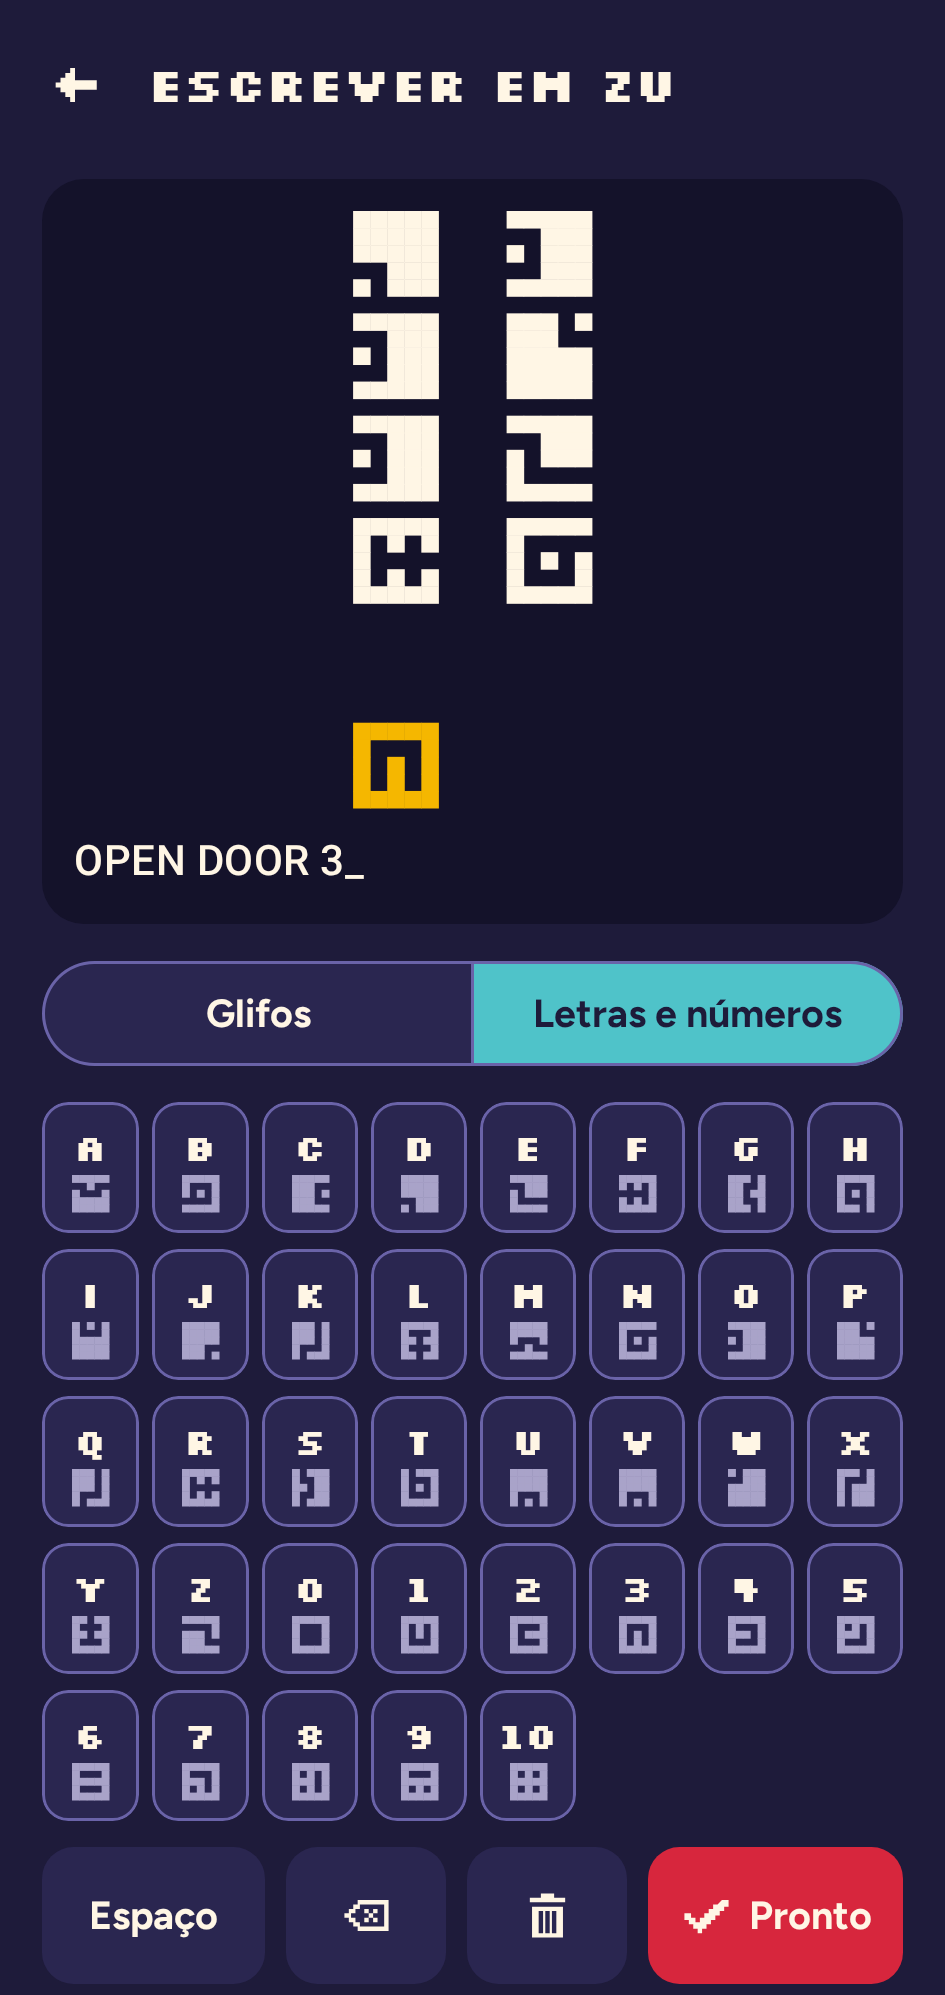
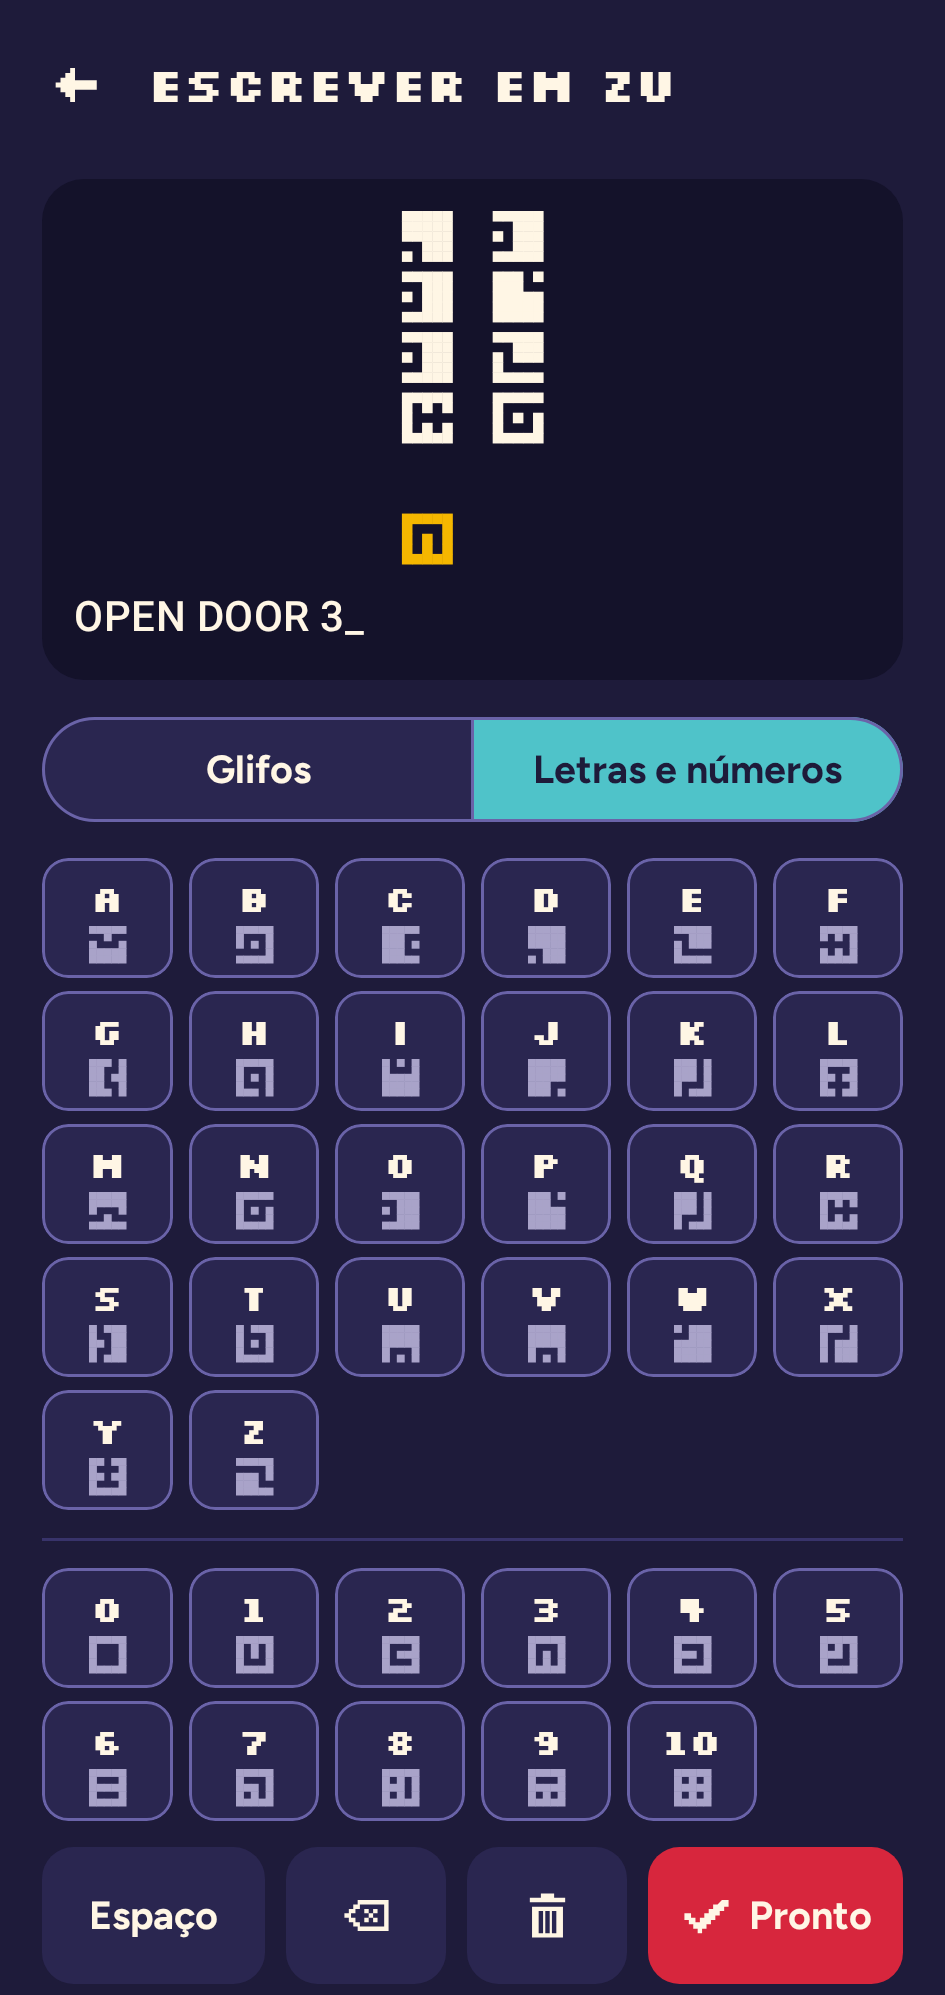
Write by hand: separate numbers from letters; keys fit the screen
Both keyboards get a gap with a thin line between letters and numbers.
Key height adapts to the screen (46 dp, down to 36 dp on short screens)
so the Zu message keeps room; with nothing typed, the hint uses the
whole message area.

Claude-Session: https://claude.ai/code/session_01BCnJVnooueZi2qjpizvg1o

diff --git a/app/src/main/kotlin/com/davicolzer/zureader/ui/write/WriteScreen.kt b/app/src/main/kotlin/com/davicolzer/zureader/ui/write/WriteScreen.kt
@@ -6,6 +6,7 @@ import androidx.compose.foundation.border
 import androidx.compose.foundation.clickable
 import androidx.compose.foundation.layout.Arrangement
 import androidx.compose.foundation.layout.Box
+import androidx.compose.foundation.layout.BoxWithConstraints
 import androidx.compose.foundation.layout.Column
 import androidx.compose.foundation.layout.Row
 import androidx.compose.foundation.layout.Spacer
@@ -100,11 +101,15 @@ fun WriteScreen(
             )
         },
     ) { padding ->
+      BoxWithConstraints(Modifier.fillMaxSize().padding(padding).navigationBarsPadding()) {
+        // teclas do tamanho que cabe: grandes em tela alta; em tela baixa encolhem (até 36 dp)
+        // para a mensagem em Zu continuar com espaço
+        fun lines(n: Int) = (n + layout.columns - 1) / layout.columns
+        val rows = if (byLetters) lines(26) + lines(11) else layout.letterRows().size + lines(ZuNumerals.glyphs.size)
+        val keyHeight = ((maxHeight - MESSAGE_MIN - FIXED_PARTS) / rows - ROW_GAP).coerceIn(MIN_KEY, layout.keyHeight)
         Column(
             Modifier
                 .fillMaxSize()
-                .padding(padding)
-                .navigationBarsPadding()
                 .padding(horizontal = 16.dp, vertical = 4.dp),
             verticalArrangement = Arrangement.spacedBy(10.dp),
         ) {
@@ -120,14 +125,17 @@ fun WriteScreen(
                 verticalArrangement = Arrangement.spacedBy(8.dp),
             ) {
                 ZuPreview(message, direction, Modifier.fillMaxWidth().weight(1f))
-                Text(
-                    ReadingMode.MIXED.display(message) + "_",
-                    style = MaterialTheme.typography.titleMedium,
-                    color = MaterialTheme.colorScheme.onBackground,
-                    maxLines = 2,
-                    overflow = TextOverflow.Ellipsis,
-                    modifier = Modifier.fillMaxWidth().semantics { contentDescription = message },
-                )
+                // sem nada escrito, a dica usa a área toda (cabe em tela pequena)
+                if (message.isNotEmpty()) {
+                    Text(
+                        ReadingMode.MIXED.display(message) + "_",
+                        style = MaterialTheme.typography.titleMedium,
+                        color = MaterialTheme.colorScheme.onBackground,
+                        maxLines = 2,
+                        overflow = TextOverflow.Ellipsis,
+                        modifier = Modifier.fillMaxWidth().semantics { contentDescription = message },
+                    )
+                }
             }
 
             SingleChoiceSegmentedButtonRow(Modifier.fillMaxWidth()) {
@@ -151,13 +159,14 @@ fun WriteScreen(
 
             if (!byLetters) {
                 // pelo desenho (ver KeyboardLayout) e, embaixo, todos os desenhos de números
-                KeyGrid(layout, layout.letterRows(), ZuNumerals.glyphs.chunked(layout.columns)) { glyph, modifier ->
+                KeyGrid(layout, keyHeight, layout.letterRows(), ZuNumerals.glyphs.chunked(layout.columns)) { glyph, modifier ->
                     GlyphKey(glyph, modifier) { text += SharedLetters.typed(glyph) }
                 }
             } else {
                 // um de cada, na ordem: A–Z e depois 0–10
-                val symbols = ('A'..'Z').toList() + ('0'..'9').toList() + ReadingMode.TEN
-                KeyGrid(layout, symbols.chunked(layout.columns), emptyList()) { symbol, modifier ->
+                // letras em cima e, separados, os números
+                val numberSymbols = ('0'..'9').toList() + ReadingMode.TEN
+                KeyGrid(layout, keyHeight, ('A'..'Z').toList().chunked(layout.columns), numberSymbols.chunked(layout.columns)) { symbol, modifier ->
                     LetterKey(symbol, modifier) { text += symbol }
                 }
             }
@@ -181,8 +190,21 @@ fun WriteScreen(
                 ) { onDone(message) }
             }
         }
+      }
     }
 }
+
+/** Espaço mínimo da mensagem em Zu. */
+private val MESSAGE_MIN = 150.dp
+
+/** Altura do resto da tela fora as teclas: escolha Glifos/Letras, linha de ações, separação e espaços. */
+private val FIXED_PARTS = 190.dp
+
+/** Espaço entre linhas de teclas. */
+private val ROW_GAP = 5.dp
+
+/** Menor altura de tecla. */
+private val MIN_KEY = 36.dp
 
 /**
  * Como as letras ficam no teclado de glifos, sempre agrupadas pelo desenho:
@@ -203,14 +225,22 @@ private enum class KeyboardLayout(val columns: Int, val keyHeight: androidx.comp
     }
 }
 
+/** Espaço entre as letras e os números. */
+private val SEPARATOR_HEIGHT = 12.dp
+
 /** Grade de teclas: [top] e, depois de um respiro, [bottom] (as linhas incompletas são completadas com vazio). */
 @Composable
-private fun <T> KeyGrid(layout: KeyboardLayout, top: List<List<T>>, bottom: List<List<T>>, key: @Composable (T, Modifier) -> Unit) {
+private fun <T> KeyGrid(layout: KeyboardLayout, keyHeight: androidx.compose.ui.unit.Dp, top: List<List<T>>, bottom: List<List<T>>, key: @Composable (T, Modifier) -> Unit) {
     Column(verticalArrangement = Arrangement.spacedBy(5.dp)) {
         for ((index, row) in (top + bottom).withIndex()) {
-            if (index == top.size && bottom.isNotEmpty()) Spacer(Modifier.height(3.dp))
+            // separação entre letras e números: um respiro com uma linha fina no meio
+            if (index == top.size && bottom.isNotEmpty()) {
+                Box(Modifier.fillMaxWidth().height(SEPARATOR_HEIGHT), contentAlignment = Alignment.Center) {
+                    Box(Modifier.fillMaxWidth().height(1.dp).background(MaterialTheme.colorScheme.outlineVariant))
+                }
+            }
             Row(horizontalArrangement = Arrangement.spacedBy(6.dp)) {
-                row.forEach { key(it, Modifier.weight(1f).height(layout.keyHeight)) }
+                row.forEach { key(it, Modifier.weight(1f).height(keyHeight)) }
                 repeat(layout.columns - row.size) { Spacer(Modifier.weight(1f)) }
             }
         }
@@ -227,7 +257,9 @@ private fun ZuPreview(message: String, direction: ReadingDirection, modifier: Mo
         if (glyphs.isEmpty()) {
             Text(
                 stringResource(R.string.write_empty),
-                style = MaterialTheme.typography.bodyMedium,
+                style = MaterialTheme.typography.bodySmall,
+                maxLines = 3,
+                overflow = TextOverflow.Ellipsis,
                 color = MaterialTheme.colorScheme.onSurfaceVariant,
                 textAlign = TextAlign.Center,
             )

diff --git a/docs/PLANO.md b/docs/PLANO.md
@@ -148,7 +148,7 @@ Fontes: **Silkscreen** (títulos e texto lido, pixel), **Figtree** (interface), 
 | **6b. Modelo treinado (opcional)** 🧪 | Testado: rede pequena (MLP 16×16 → 96 → 24 glifos + "não é glifo") treinada com numpy em ~93 mil recortes sintéticos degradados + glifos das paredes reais (gerador `GlyphNetDataGenerator`, script `tools/train_glyphnet.py`); 99,3% na validação. No leitor, ela resgatava glifos borrados e descartava lixo | **Não entrou no app**: nas lápides (fora do treino) o resultado oscilou — lápide 2 inteira subiu de 79% para 95%, mas as recortadas caíram (95% → 84% e 69% → 13%); restringir a correção a grades parecidas não deixou nenhuma variante melhor em todas as fotos. Retomar com mais fotos reais de lápides/pedra para treino |
 | **7. Tradução (opcional)** | ML Kit Translation EN → PT no aparelho, mostrando inglês e português | Só se o projeto decidir retomar a tradução |
 | **8. Números** ✅ | Seletor **Auto / Escrita / Números** (Auto é o padrão: lê em paralelo como escrita, como números e **misturado** — letras e números na mesma frase, ex.: "ROOM 12" —, uma thread por modo, e fica com a leitura de nota maior; a mista só vale com letras e números confiantes no mesmo bloco e letras iguais às da leitura só de escrita; nenhuma letra tem moldura completa e o par mais parecido, B e 0, difere em 2 quadradinhos) na tela inicial e na câmera (fica salvo). Modo números: 16 desenhos (0–10 e variantes de 3–7, todos com moldura e miolo 3×3), sem modelo do inglês, orientação da foto; resultado "3 10 7 / 1 2", correção com teclado 0–10; o modo fica salvo na leitura do histórico; exemplos aprendidos separados por modo | Testes: 16 desenhos distintos com moldura, cada um reconhecido; números em colunas, com ruído, em imagem com borrão/ruído/JPEG e colorida; modo escrita não devolve números; leitura salva guarda o modo (e as antigas abrem como escrita). Tabela real dos números do jogo (0–10, enviada pelo usuário) bate com os 16 desenhos e é lida inteira no modo Auto (`RealNumbersTest`). Placas da biblioteca (números encostados numa faixa em relevo): fatiadas de 4 em 4 blocos; recortadas, são lidas como números. **Falta**: gabarito dos dígitos dessas placas e leitura sem recorte |
-| **9. Escrever à mão (teclado Zu)** ✅ | **Terceira opção na tela inicial** ("Escrever à mão"), no mesmo nível de "Fotografar" e "Escolher da galeria". Tudo numa tela só, sem rolagem (a mensagem ocupa o espaço que o teclado deixa; cabe em 360×640 dp). Dois jeitos de digitar: **Glifos** (para quem copia do jogo e não sabe o que os glifos significam: organizados pelo desenho, duas formas por linha com as 4 rotações cada, `ZuAlphabet.shapes`, e embaixo todos os 16 desenhos de números, com as variantes de 3 a 7; K/Q e U/V numa tecla só, com a letra escolhida pelo contexto do inglês e atualizada enquanto digita, como na leitura de foto, `SharedLetters`) ou **Letras e números** (A–Z e 0–10, um de cada, com K e Q separados; cada tecla mostra a letra e o glifo dela). Teclas de 50 dp, 8 por linha; Espaço, Apagar, Limpar e Pronto numa linha, Espaço, Apagar e Limpar tudo; em cima, a mensagem em Zu em colunas (como no jogo, na direção de leitura escolhida, último glifo em dourado) e o texto em inglês. "Pronto" abre a tela de resultado (copiar, compartilhar, salvar no histórico, zoom); voltar reabre o teclado com o texto. A leitura é exata (`ZuWriter`): o texto montado vira a leitura sem passar pelo leitor de imagens | Testes: texto vira imagem e leitura exata (K/Q do usuário mantido; o leitor de imagens lê a mesma coisa na imagem gerada), números e misto, caixas em cima dos glifos desenhados, salvar e abrir igual. Capturas: [tela inicial](design/home-escrever-android.png), [teclado](design/escrever-vazio-android.png), [glifos](design/escrever-texto-android.png), [letras e números](design/escrever-letras-android.png), [resultado](design/escrever-resultado-android.png) |
+| **9. Escrever à mão (teclado Zu)** ✅ | **Terceira opção na tela inicial** ("Escrever à mão"), no mesmo nível de "Fotografar" e "Escolher da galeria". Tudo numa tela só, sem rolagem (a mensagem ocupa o espaço que o teclado deixa; cabe em 360×640 dp). Dois jeitos de digitar: **Glifos** (para quem copia do jogo e não sabe o que os glifos significam: organizados pelo desenho em 6 colunas, uma coluna por forma e uma linha por rotação, `ZuAlphabet.shapes`, e embaixo, depois de uma separação, todos os 16 desenhos de números, com as variantes de 3 a 7; K/Q e U/V numa tecla só, com a letra escolhida pelo contexto do inglês e atualizada enquanto digita, como na leitura de foto, `SharedLetters`) ou **Letras e números** (A–Z e, depois de uma separação, 0–10, um de cada, com K e Q separados; cada tecla mostra a letra e o glifo dela). 6 teclas por linha, com altura que se ajusta à tela (46 dp, até 36 dp em tela baixa, para a mensagem em Zu continuar com espaço); Espaço, Apagar, Limpar e Pronto numa linha, Espaço, Apagar e Limpar tudo; em cima, a mensagem em Zu em colunas (como no jogo, na direção de leitura escolhida, último glifo em dourado) e o texto em inglês. "Pronto" abre a tela de resultado (copiar, compartilhar, salvar no histórico, zoom); voltar reabre o teclado com o texto. A leitura é exata (`ZuWriter`): o texto montado vira a leitura sem passar pelo leitor de imagens | Testes: texto vira imagem e leitura exata (K/Q do usuário mantido; o leitor de imagens lê a mesma coisa na imagem gerada), números e misto, caixas em cima dos glifos desenhados, salvar e abrir igual. Capturas: [tela inicial](design/home-escrever-android.png), [teclado](design/escrever-vazio-android.png), [glifos](design/escrever-texto-android.png), [letras e números](design/escrever-letras-android.png), [tela pequena](design/escrever-pequeno-android.png), [resultado](design/escrever-resultado-android.png) |
 
 ### Dados de teste
 
